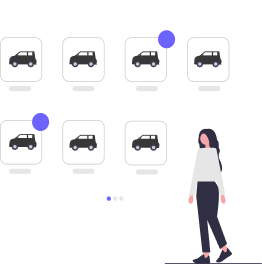
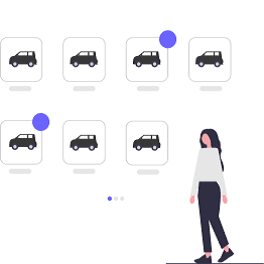
fixed 3rd div in landing page

diff --git a/src/Pages/LandingPage/LandingPage.css b/src/Pages/LandingPage/LandingPage.css
@@ -210,12 +210,8 @@
 }
 
 .vop-img > img,
-.ep-img > img {
+.ep-img > img,.cto-img > img {
   width: 80%;
-}
-
-.cto-img > img {
-  width: 65%;
 }
 
 .vop-details,
@@ -225,7 +221,6 @@
 
 .ep-details {
   margin: 1rem;
-  margin-top: 4.5rem;
 }
 
 .customers-review {
